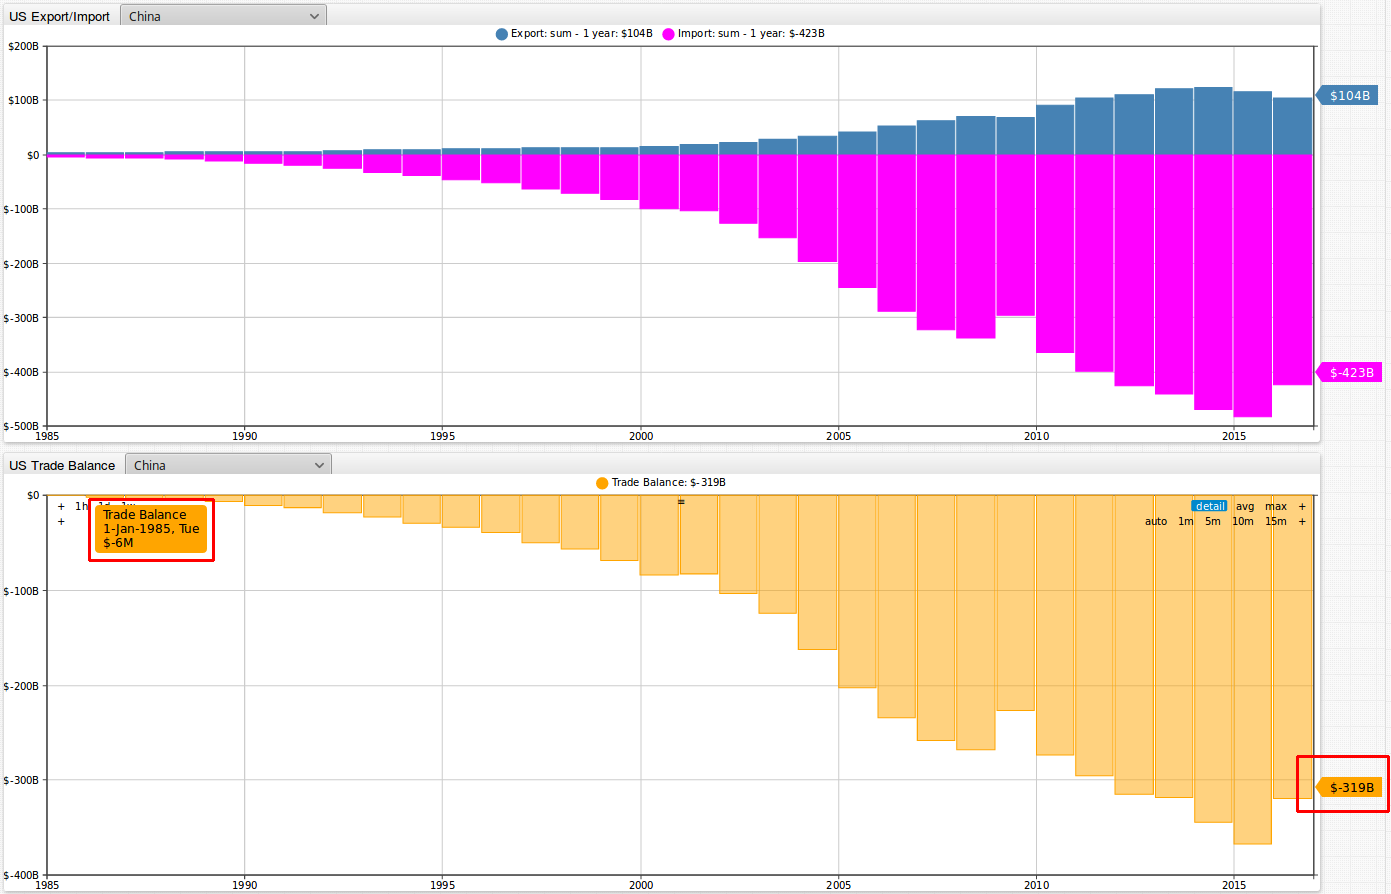
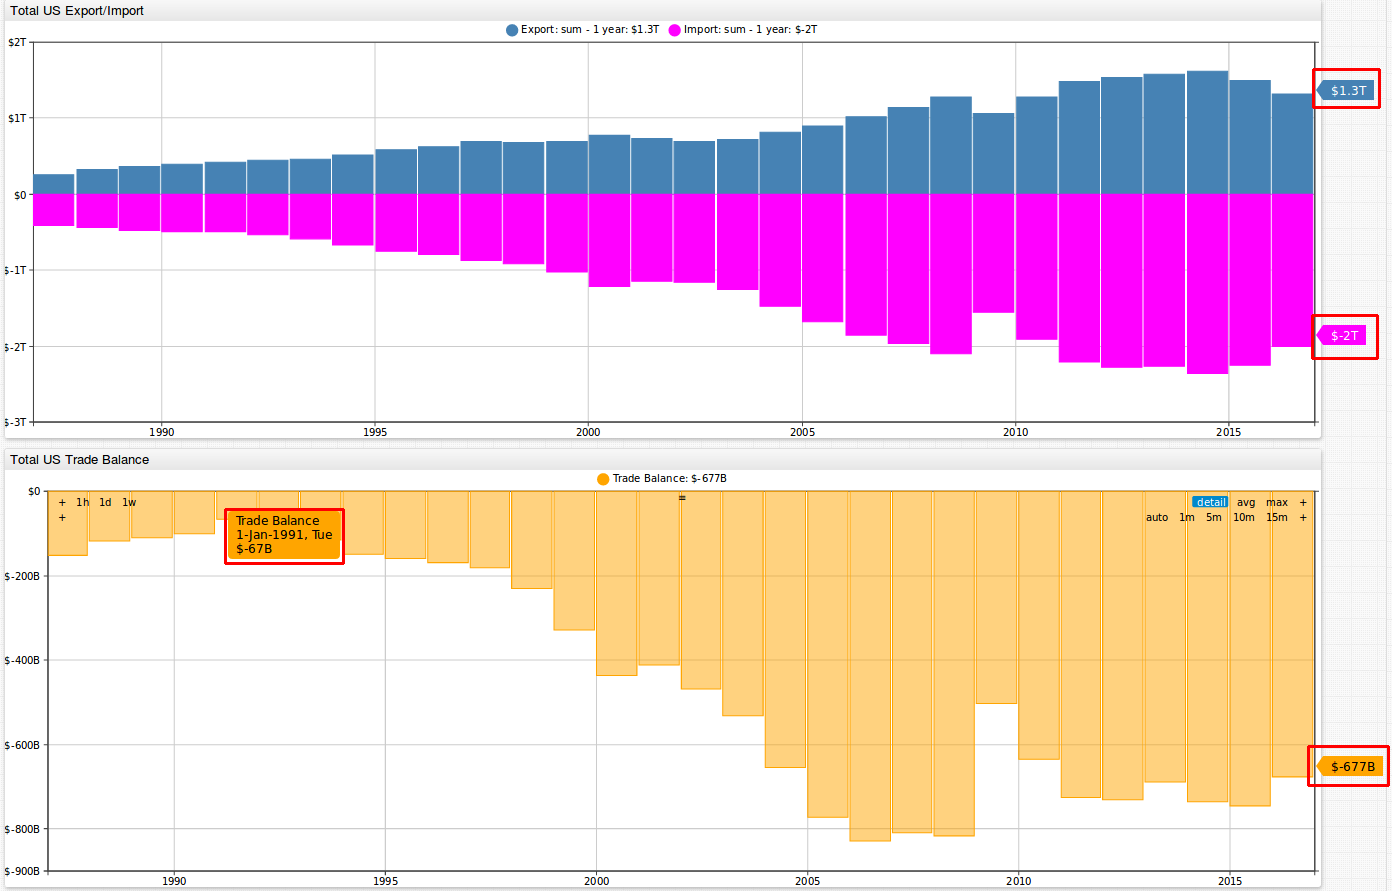
us-international-trade

diff --git a/USInternationalTrade/README.md b/USInternationalTrade/README.md
@@ -15,7 +15,7 @@ as well as instructions on how to install your own ATSD instance and populate it
 ### America's Trade Balance Dataset
 -----------------------------------
 
-Let's take a look at dataset on America's trade balance from [census.gov](https://www.census.gov/).  
+Let's take a look at a dataset on America's trade balance from [census.gov](https://www.census.gov/).  
 
 This dataset can be found here: https://www.census.gov/foreign-trade/balance/index.html. 
 
@@ -32,9 +32,9 @@ You can load the dataset into your ATSD instance by following the steps provided
 ### Overview
 ------------
 
-So when did the U.S. have it's best trade balance in recent history? 
+So when did the U.S. have it's best international trade balance in recent history? 
 
-Below is an image showing import, export, and trade balance values from 1987 to 2016 between the U.S. and all countries included in this dataset. 
+Below is an image showing import, export, and trade balance values from 1987 to 2016 between the U.S. and the sum of all countries included in this dataset. 
 The top image shows exports (in blue) over imports (in pink). In 2016, imports into the United States totalled **$2 trillion**, while exports were **$1.3 trillion**. The lower figure shows trade balance, which is the dollar amount for exports minus imports. The trade balance grew from **-$152 billion** in 1987 to **-$677 billion** in 2016.
 
 ![Figure 4](Images/Figure4.png)
@@ -138,12 +138,12 @@ GROUP BY e.period(1 year), e.tags
 ### 2016: Year in Review
 ------------------------
 
-Below is an image of the top countries for U.S. export and imports in 2016. The table to the right of the below graphs provides
+How did 2016 look for the United States? Below is a figure of the top countries for U.S. export and imports in 2016. The table to the right of the below graphs provides
 monetary values for exports, imports, and the trade balance (export minus import) between the U.S. and each respective country, continent, or organization. The table is sorted by
 trade balance, with the highest negative trade balances showing at the top. You may sort the table as you wish by accessing the Chart Lab portal (button below) and clicking 
 on the column headers.
  
-In 2016, the locations with which the United States had the highest negative and positive trade balances with was China and Hong Kong at **- $319 billion** and **$25.1 billion**, 
+In 2016, the locations with which the United States had the highest negative and positive trade balances were China and Hong Kong at **- $319 billion** and **$25.1 billion**, 
 respectively.   
 
 ![Figure 2](Images/Figure2.png)
@@ -183,7 +183,7 @@ GROUP BY e.period(1 year), e.tags
 | Sub Saharan Africa         | 0019  | 12.4    | 18.2    | -5.8          | 
 ```
 
-In addition to tables output from SQL queries, we can display these relationships in Chart Lab graphs. Below is an image for U.S. trade export and import numbers with South and
+In addition to tables output from SQL queries, we can display these continental relationships in Chart Lab graphs. Below is an image for U.S. trade export and import numbers with South and
 Central America, Asia, Africa, Europe, and North America for 2016. Lines are drawn going from (exports) and coming back to (imports) the U.S. The heavier the lines
 are between the U.S. and the respective continent, the greater the dollar amount in trade. We can see that 2016 exports from the U.S. to North America totalled
 **$457 billion**, while imports from North America into the US totalled **$525 billion**, resulting in a trade balance of **-$68 billion**. Additionally, we can see that the 
@@ -244,13 +244,15 @@ Let's now take a closer look at America's trading partners. Are there any shared
 
 A claim often made is that poor, developing countries are stealing American jobs and industry. If a country is poaching another country's jobs and industry, it is reasonable to
 to assume that the afflicted country's trade balance would change as a result. For example, the more steel manufacturing jobs that leave the U.S. for Asia, the more steel the
-U.S. will need to import from Asia. Here is a query showing the year with the highest trade balance (least negative or most positive, in millions USD) going back to 1985
-for countries in the bottom 50% by GDP per capita (true/absolute value shown below). In this instance, `2016_GDP_per_capita` was calculated from the following two replacement tables: 
-[`world-population.txt`](/resources/world-population.txt) and [`world-gdp.txt`](/resources/world-gdp.txt). Results are sorted by the country's `2016_trade_balance_rank`. The
-more negative a country's trade balance, the higher it's ranking. You can refer to the [`us-trade-balance-rank-2016.txt`](/resources/us-trade-balance-rank-2016.txt) file to see these rankings.
+U.S. will need to import from Asia. In this instance, `2016_GDP_per_capita` was calculated from the following two replacement tables: 
+[`world-population.txt`](/atsd-use-cases/blob/master/USInternationalTrade/resources/world-population.txt) and [`world-gdp.txt`](/atsd-use-cases/blob/master/USInternationalTrade/resources/world-gdp.txt). Results are sorted by the country's `2016_trade_balance_rank`. The
+more negative a country's trade balance, the higher it's ranking. You can refer to the [`us-trade-balance-rank-2016.txt`](/atsd-use-cases/blob/master/USInternationalTrade/resources/us-trade-balance-rank-2016.txt) file to see these rankings.
 In order to seperate rich and poor countries, we calculated an average world GDP. We divided the world population ([7,432,663,275](https://en.wikipedia.org/wiki/List_of_countries_by_population_(United_Nations))) 
-by the world's GDP ([75,212,696](https://en.wikipedia.org/wiki/List_of_countries_by_GDP_(nominal))) to get a world GDP of $10,273. Any
+by the world's GDP ([$75,212,696 billion](https://en.wikipedia.org/wiki/List_of_countries_by_GDP_(nominal))) to get a world GDP of $10,273. Any
 countries having a GDP less than this were considered poor countries, while countries with a greater GDP were considered rich.
+
+Here is a query showing the year with the highest trade balance (least negative or most positive, in millions USD) going back to 1985
+for countries in the bottom 50% by GDP per capita (true/absolute value shown below):
 
 ```sql
 SELECT e.tags.ctyname AS country, 
@@ -318,7 +320,8 @@ Looking at our results, a couple of things stand out:
 * The U.S. had negative trade balances (more imports than exports) in 2016 with all of these countries.
 * All of these countries have a GDP per capita of greater than $22,190.9 (Taiwan).
 
-Looking at these two outputs together, we can see that the U.S. has bad trade balances with both poor and rich countries. While there may not be a direct correlation between a 
+Looking at these two outputs together, we can see that the U.S. has bad trade balances with both poor and rich countries. For both poor and rich countries, we need to go back to the
+early 1900's (as we found in the first query of this article) for when the U.S. had it's best trade balance. While there may not be a direct correlation between a 
 a country losing jobs and having to increase it's imports, both rich and poor countries could be equally accused of taking U.S. jobs. In the top ten for trade balance rank, there 
 are both five poor (China, Mexico, Vietnam, India, and Malaysia) and rich (Japan, Germany, Ireland, South Korea, and Italy) countries included in this list. 
 
@@ -336,6 +339,9 @@ are both five poor (China, Mexico, Vietnam, India, and Malaysia) and rich (Japan
 | Canada        | 1991  | 85149.8  | 91063.9  | -5914.1        | -9136.9             | 42229.1              | 16.0                    | 
 | Israel        | 1987  | 3130.2   | 2639.3   | 490.9          | -8352.5             | 38051.9              | 17.0                    | 
 ```
+
+While improving a country's international trade balance may not solve all of it's economic problems, it can be a good place to start looking for answers. Do you agree with the findings
+in this article? Download ATSD, explore this dataset, and make up your own mind. 
 
 ### Action Items
 ----------------
